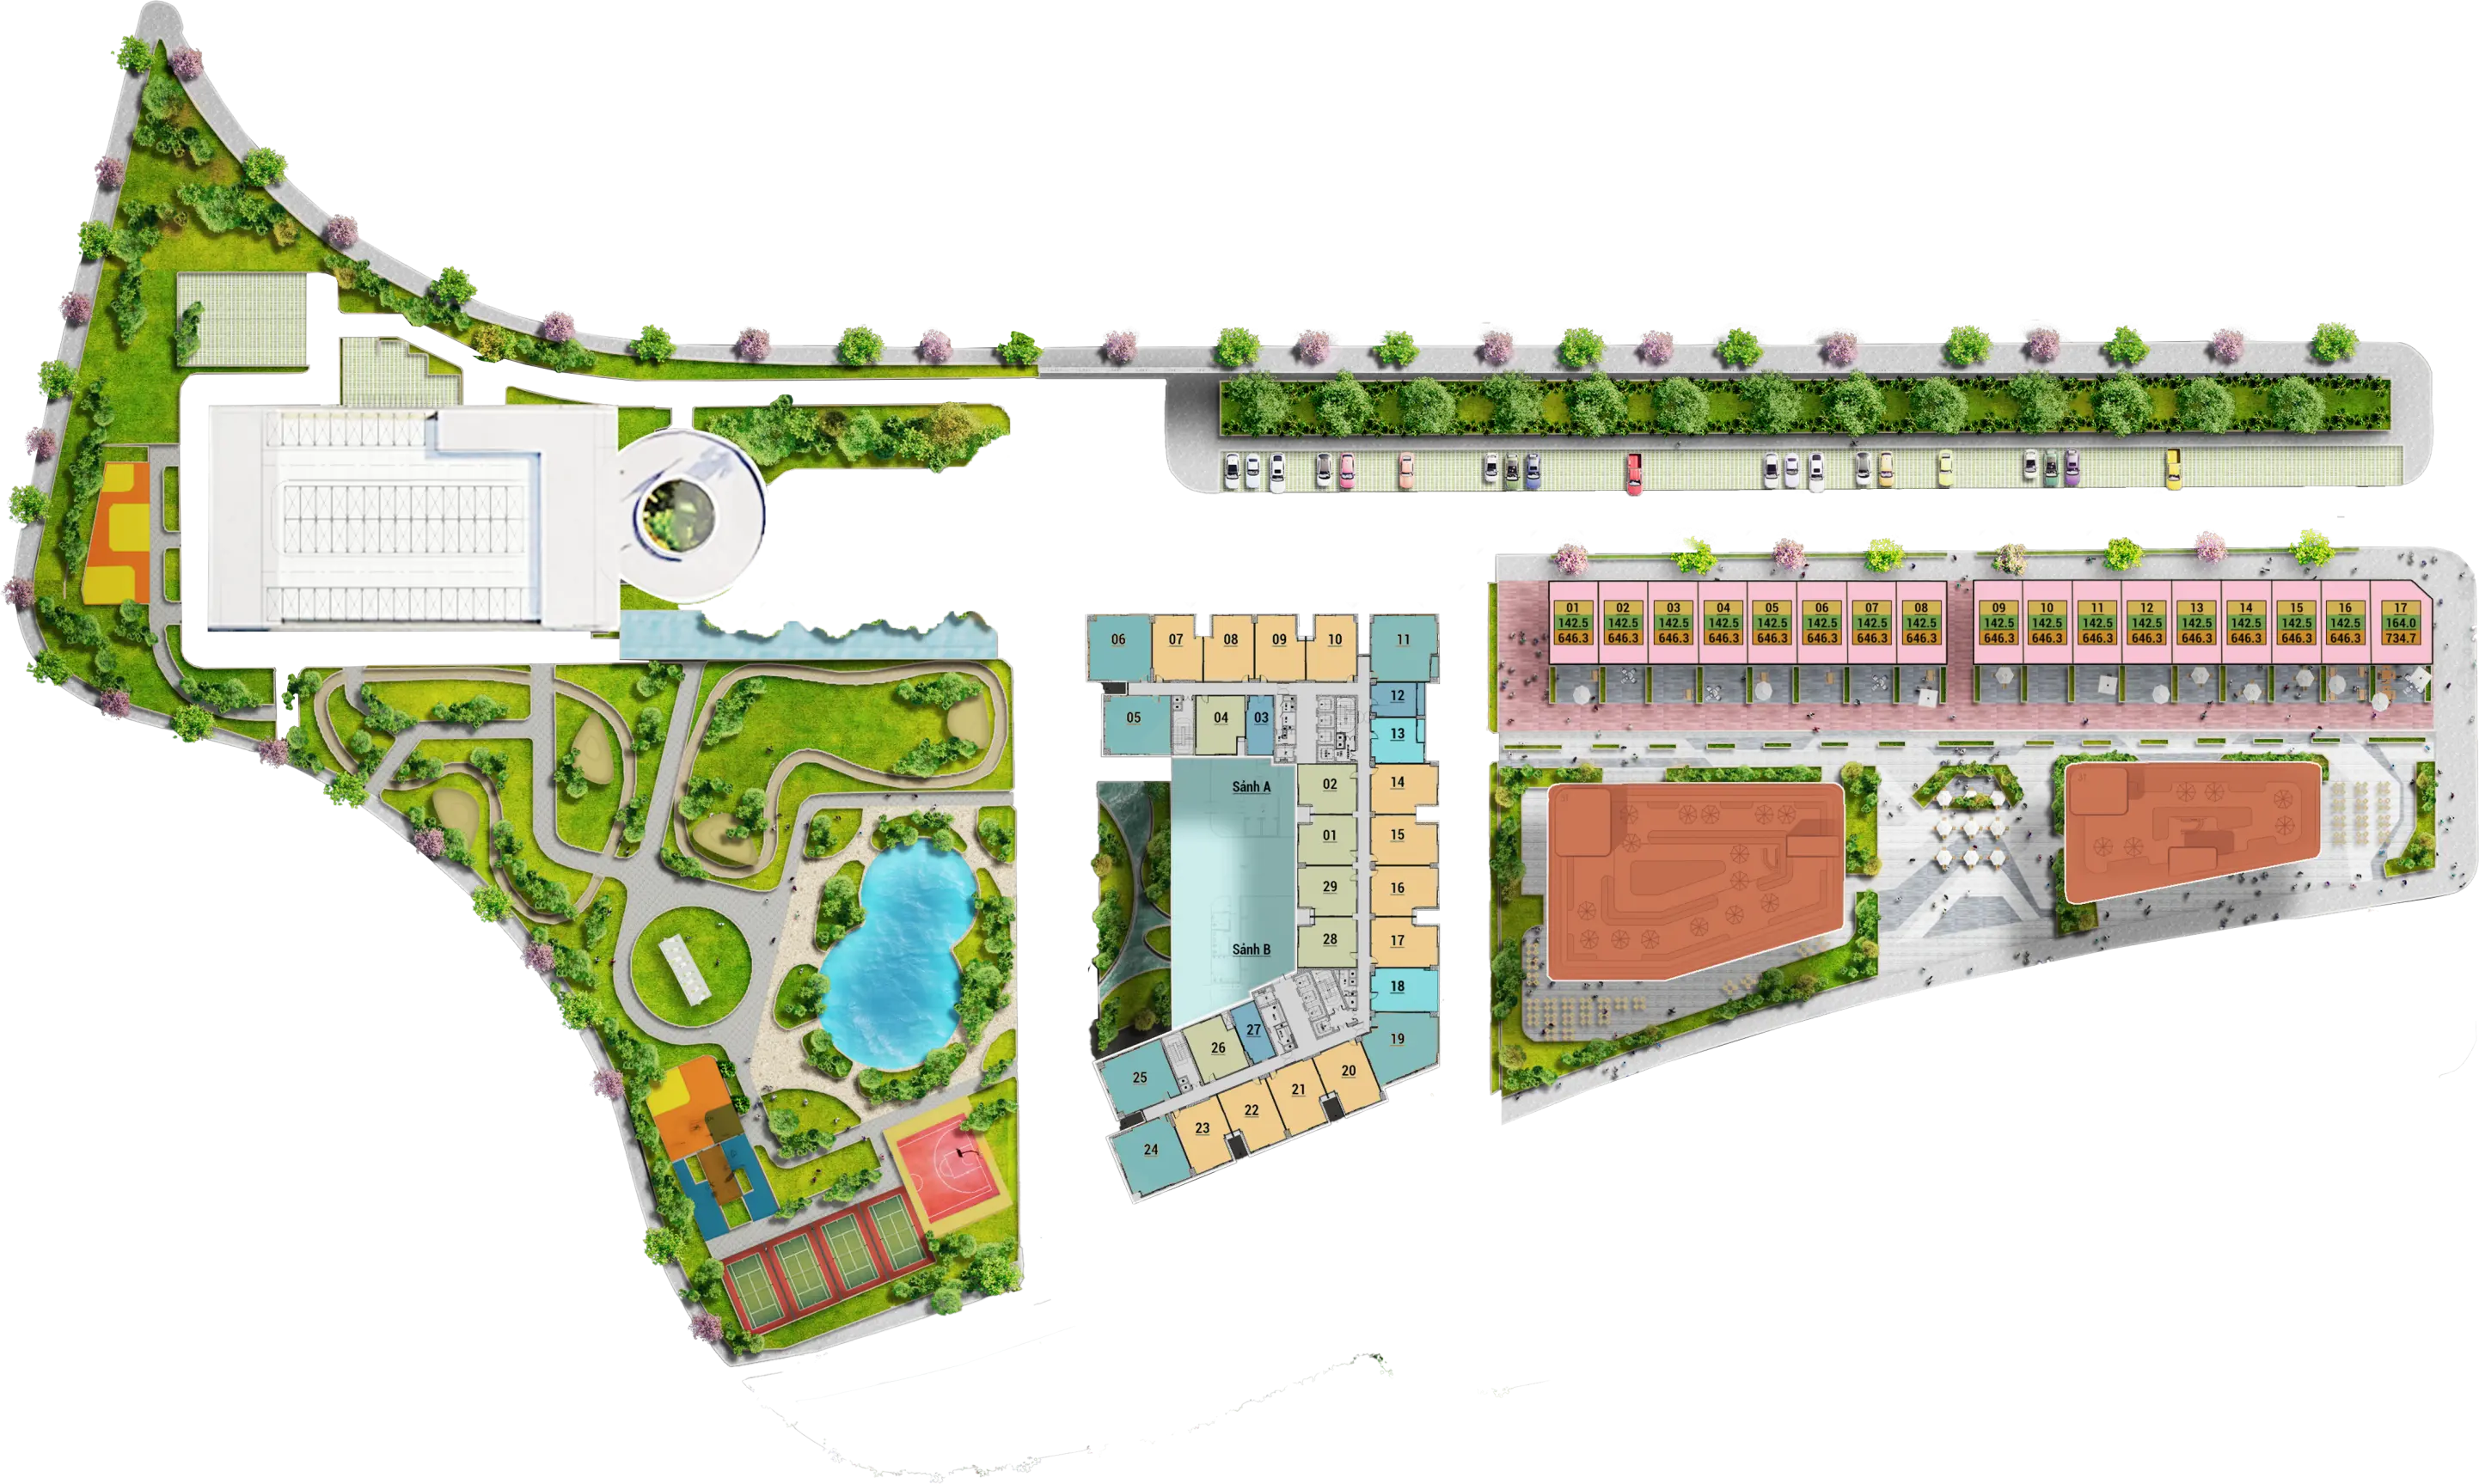
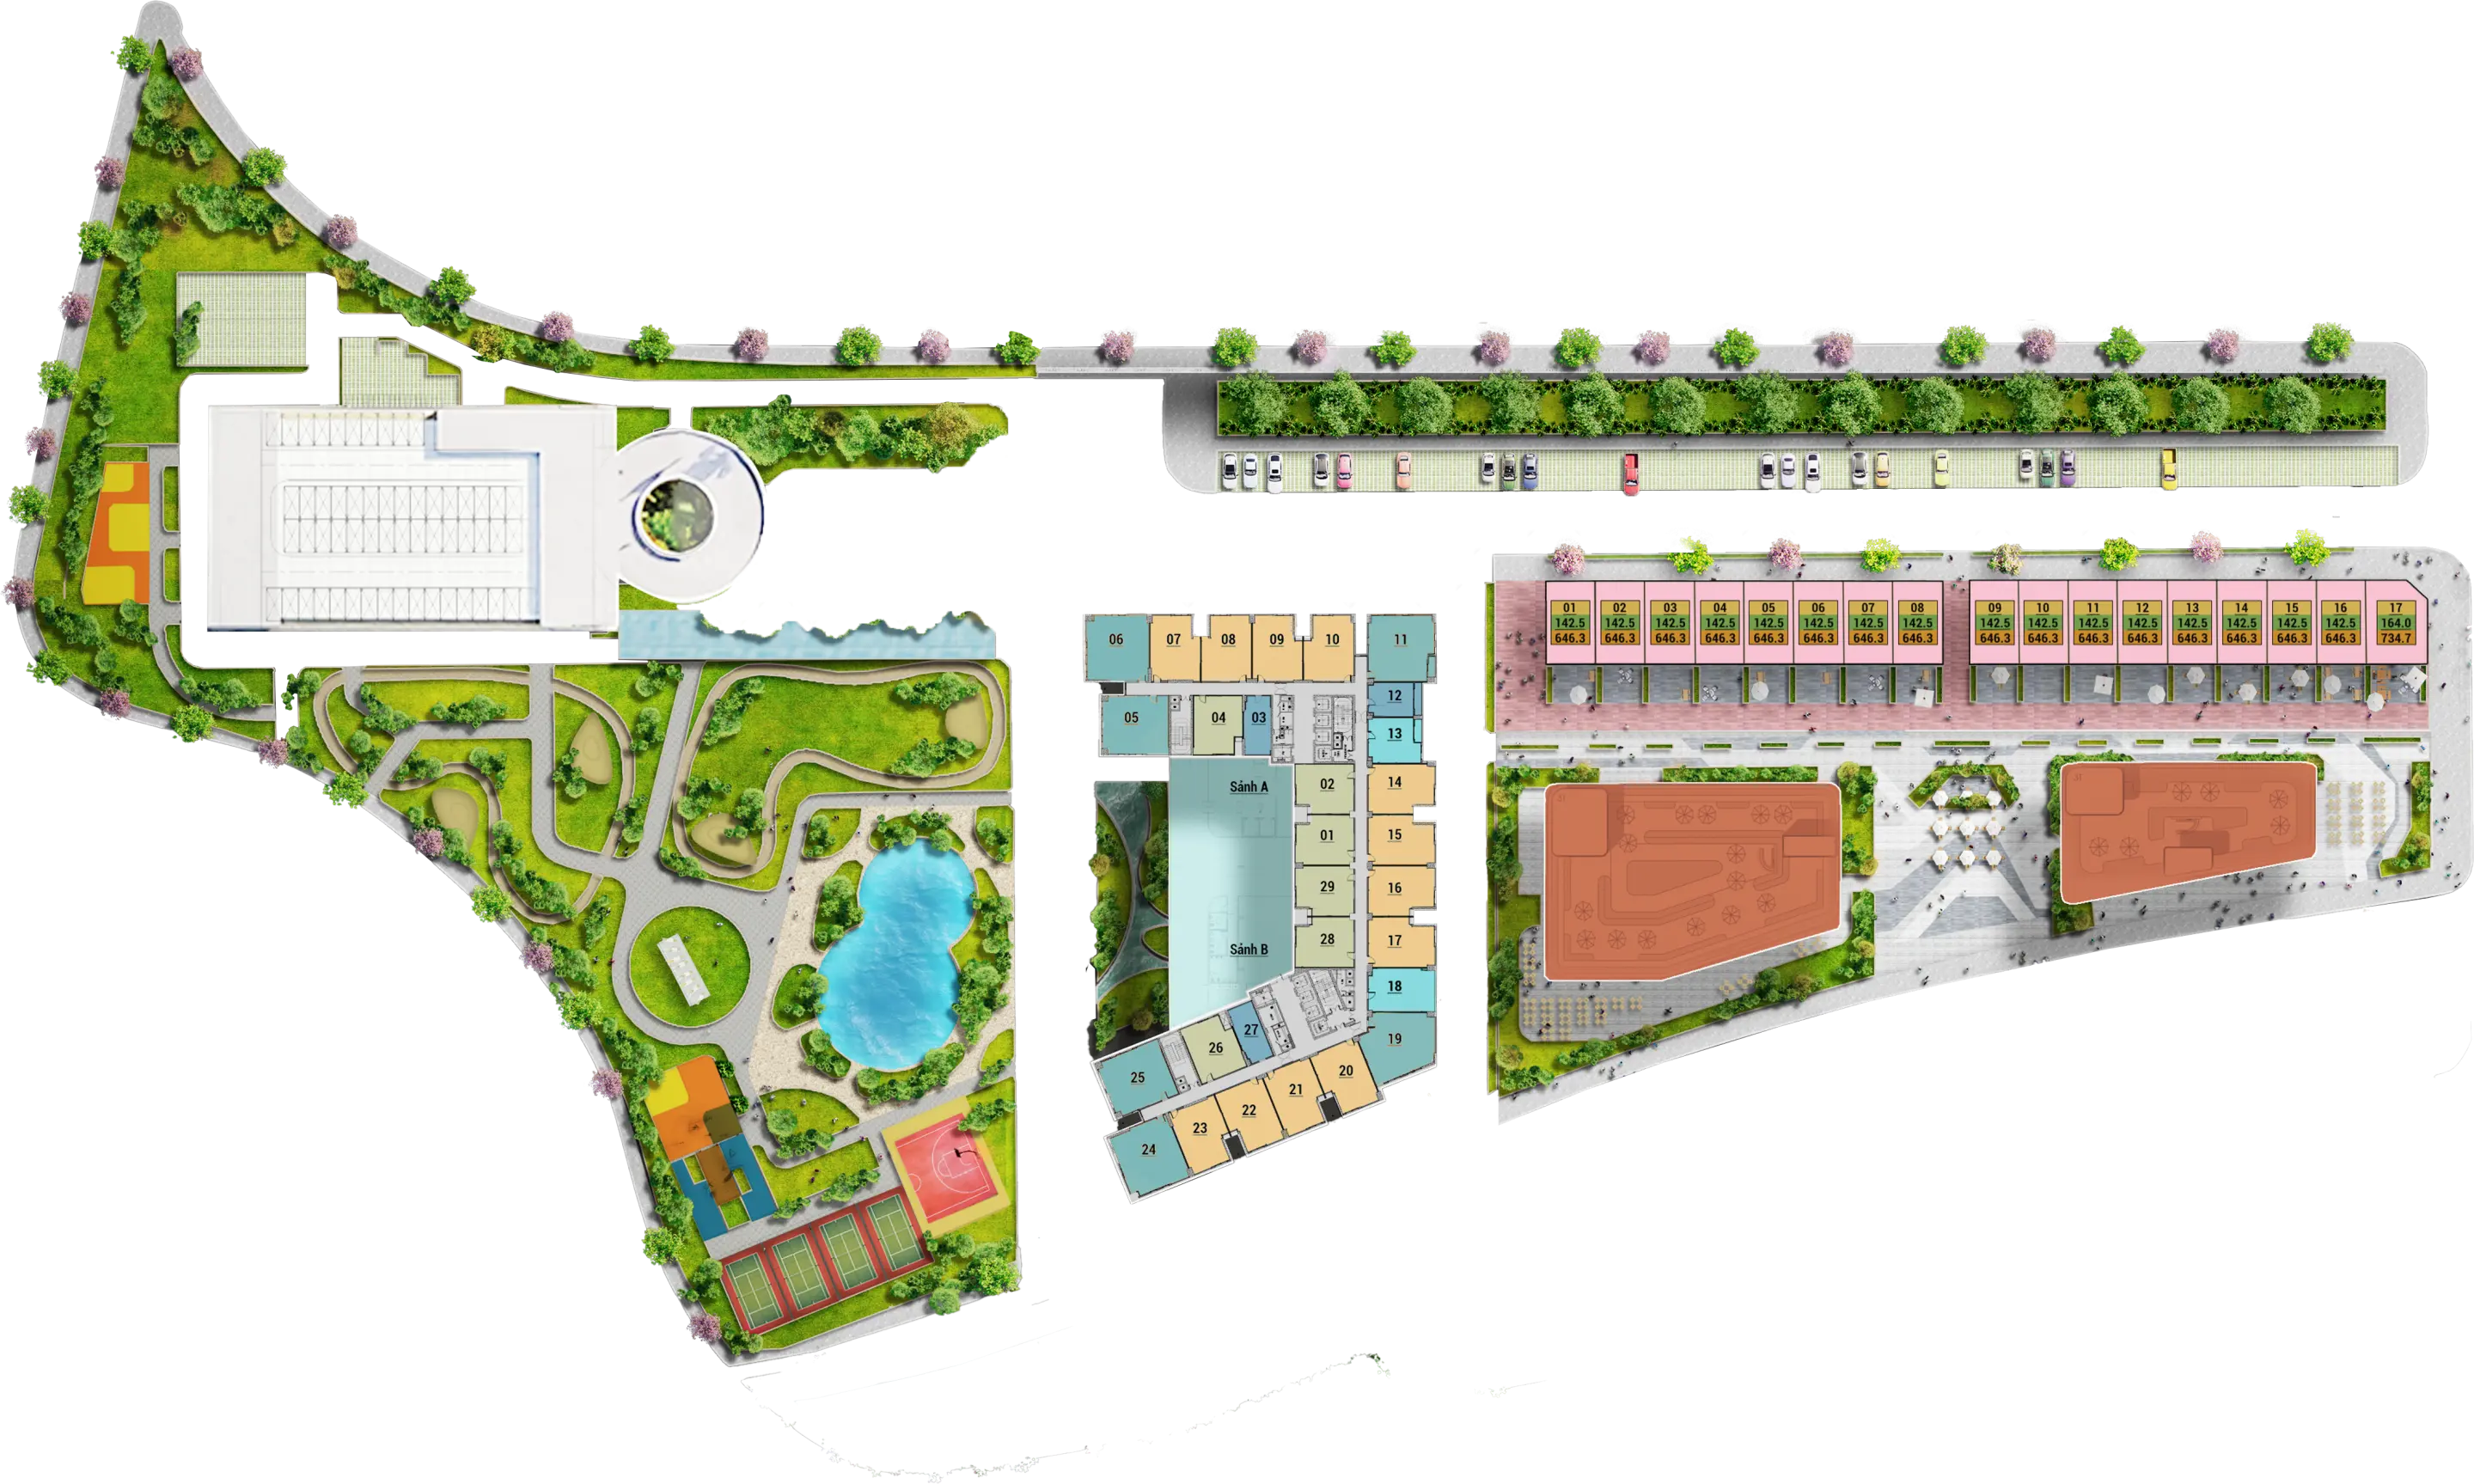
Update panorama assets, locale, and player scripts

diff --git a/index.htm b/index.htm
@@ -6,18 +6,18 @@
     <meta name="viewport" id="metaViewport" content="user-scalable=no, initial-scale=1, width=device-width, viewport-fit=cover" data-tdv-general-scale="0.5"/>
     <meta name="apple-mobile-web-app-capable" content="yes"/>
     <meta name="apple-mobile-web-app-status-bar-style" content="default">
-    <script src="lib/tdvplayer.js?v=1783932404474"></script>
-    <link rel="preload" href="locale/en.txt?v=1783932404474" as="fetch" crossorigin="anonymous"/>
-	<link rel="preload" href="script.js?v=1783932404474" as="script"/>
-	<link rel="preload" href="media/panorama_FC3EFBC3_EF3E_C5B1_41E1_EAED0B2A7971_0/r/4/0_0.webp?v=1783932404474" as="image"/>
-	<link rel="preload" href="media/panorama_FC3EFBC3_EF3E_C5B1_41E1_EAED0B2A7971_0/l/4/0_0.webp?v=1783932404474" as="image"/>
-	<link rel="preload" href="media/panorama_FC3EFBC3_EF3E_C5B1_41E1_EAED0B2A7971_0/u/4/0_0.webp?v=1783932404474" as="image"/>
-	<link rel="preload" href="media/panorama_FC3EFBC3_EF3E_C5B1_41E1_EAED0B2A7971_0/d/4/0_0.webp?v=1783932404474" as="image"/>
-	<link rel="preload" href="media/panorama_FC3EFBC3_EF3E_C5B1_41E1_EAED0B2A7971_0/f/4/0_0.webp?v=1783932404474" as="image"/>
-	<link rel="preload" href="media/panorama_FC3EFBC3_EF3E_C5B1_41E1_EAED0B2A7971_0/b/4/0_0.webp?v=1783932404474" as="image"/>
+    <script src="lib/tdvplayer.js?v=1784188706331"></script>
+    <link rel="preload" href="locale/en.txt?v=1784188706331" as="fetch" crossorigin="anonymous"/>
+	<link rel="preload" href="script.js?v=1784188706331" as="script"/>
+	<link rel="preload" href="media/panorama_FC3EFBC3_EF3E_C5B1_41E1_EAED0B2A7971_0/r/4/0_0.webp?v=1784188706331" as="image"/>
+	<link rel="preload" href="media/panorama_FC3EFBC3_EF3E_C5B1_41E1_EAED0B2A7971_0/l/4/0_0.webp?v=1784188706331" as="image"/>
+	<link rel="preload" href="media/panorama_FC3EFBC3_EF3E_C5B1_41E1_EAED0B2A7971_0/u/4/0_0.webp?v=1784188706331" as="image"/>
+	<link rel="preload" href="media/panorama_FC3EFBC3_EF3E_C5B1_41E1_EAED0B2A7971_0/d/4/0_0.webp?v=1784188706331" as="image"/>
+	<link rel="preload" href="media/panorama_FC3EFBC3_EF3E_C5B1_41E1_EAED0B2A7971_0/f/4/0_0.webp?v=1784188706331" as="image"/>
+	<link rel="preload" href="media/panorama_FC3EFBC3_EF3E_C5B1_41E1_EAED0B2A7971_0/b/4/0_0.webp?v=1784188706331" as="image"/>
 	<meta name="description" content="Virtual Tour"/>
 	<meta name="theme-color" content="#FFFFFF"/>
-    <script src="script.js?v=1783932404474"></script>
+    <script src="script.js?v=1784188706331"></script>
     <style type="text/css">
         html, body { height:100%; width:100%; height:100vh; width:100vw; margin:0; padding:0; overflow:hidden; }
         .fill-viewport { position:fixed; top:0; left:0; right:0; bottom:0; padding:0; margin:0; overflow: hidden; }
@@ -29,7 +29,7 @@
     
 </head>
 <body>
-    <div id="preloadContainer" class="fill-viewport"><div style="z-index: 4; position: absolute; overflow: hidden; left: 0%; top: 50%; width: 100.00%; height: 10.00%" ><div style="text-align:left; color:#000; "><DIV STYLE="text-align:center;font-size:1.6666666666666663vmin;"><SPAN STYLE="display:inline-block; letter-spacing:0vmin; white-space:pre-wrap;color:#777777;font-size:1.67vmin;font-family:Arial, Helvetica, sans-serif;">Loading virtual tour. Please wait...</SPAN></DIV></div></div></div>
+    <div id="preloadContainer" class="fill-viewport"><div style="z-index: 4; position: absolute; overflow: hidden; left: 0%; top: 50%; width: 100.00%; height: 10.00%" ><div style="text-align:left; color:#000; "><DIV STYLE="text-align:center;font-size:1.666666666666666vmin;"><SPAN STYLE="display:inline-block; letter-spacing:0vmin; white-space:pre-wrap;color:#777777;font-size:1.67vmin;font-family:Arial, Helvetica, sans-serif;">Loading virtual tour. Please wait...</SPAN></DIV></div></div></div>
     <div id="viewer" class="fill-viewport"></div>
 </body>
 </html>